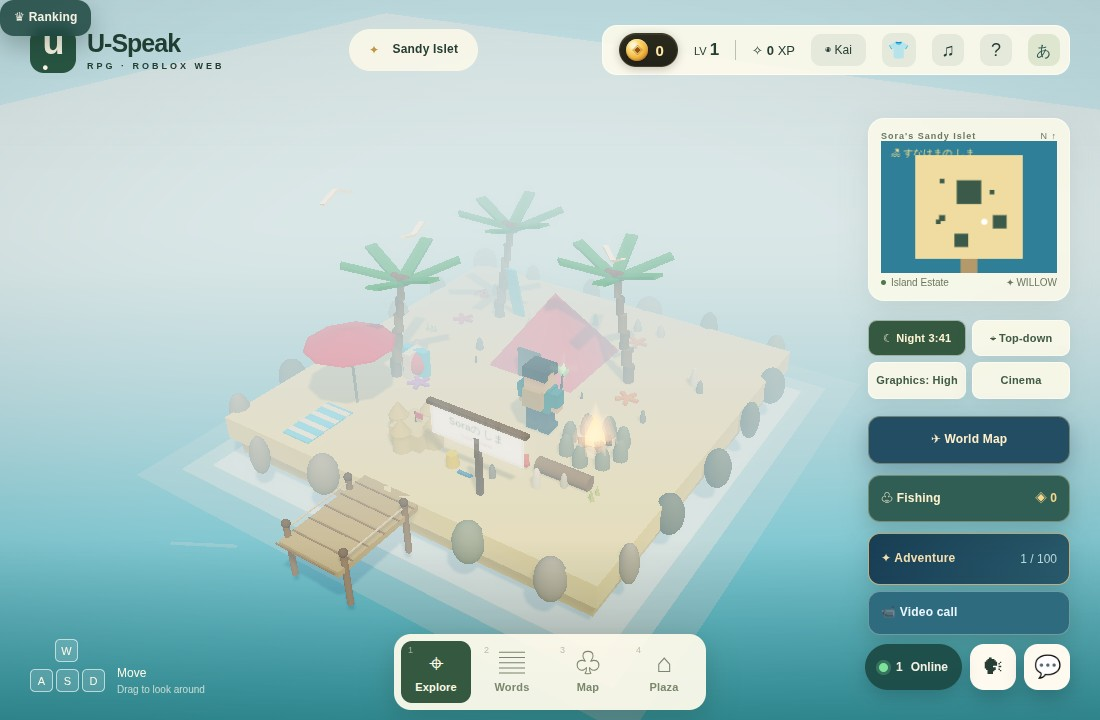
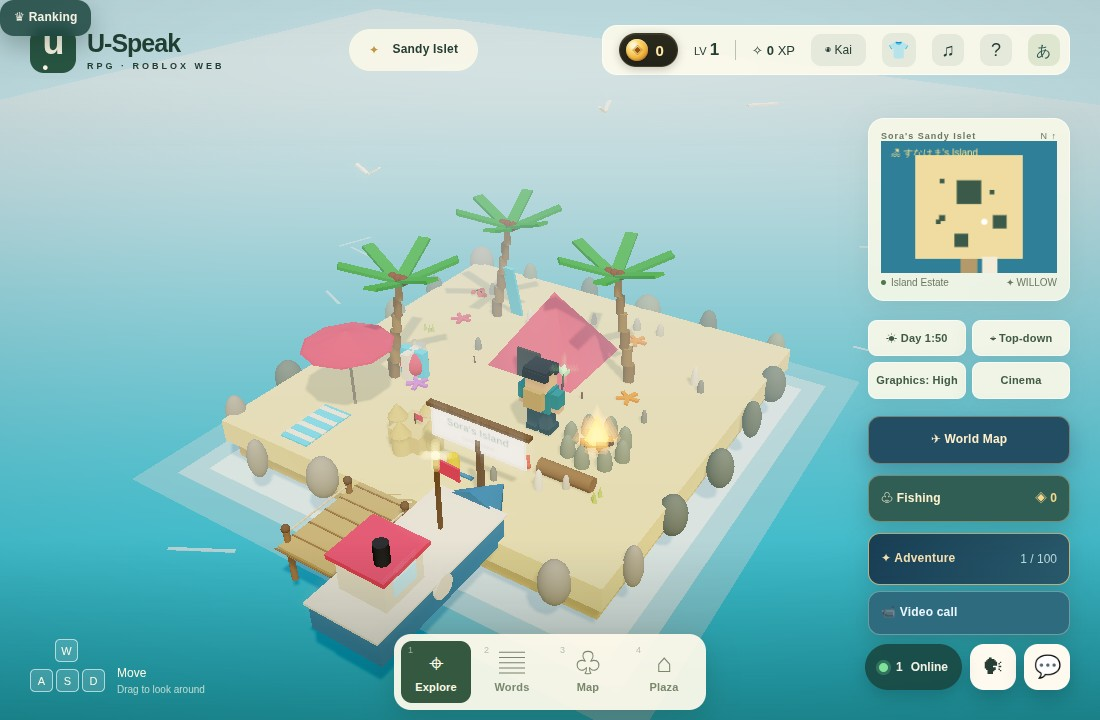
土地島: じぶんの しま・みんなの しまへ 船で いく（船が実際に走る・⏭ スキップ）
- land-world.js: createLand に船（船体・客室・マスト・旗・航跡・煙）と遠くの土地島。
  land:island が来たら startRide('in')：土地島の桟橋から島の berth まで ease で走り、
  乗っている間は blocked() が全部 true、update() が甲板に置き、カメラは船の斜め後ろ。
  着いたら桟橋に降りて船は横に係留。桟橋を下りると startRide('out') → leave()。
  #land-ride の ⏭ か myLand.skip() で即着く。enter(payload, {ride:false}) で船なし。
- ClassRoom: land:visit {name}（みんなの しまの戸口で）→ その子の land:island（visiting）。
  いない名前は 'no such child'、島なしは 'no island'。見るだけ、何も変えない。
- land.js / land.css: みんなの しまの各行に「⛵ いく」、乗船中の表示と控える操作。
- 検査: room.test の土地島に land:visit（自分・他人・いない子・島なし）、
  browser-land.mjs 26 項目（船が動く・スキップ・係留・桟橋から戻る・いく で行く）。
  英語監査 0、regression 33、サーバー 303/303。案内・lang.json・README・client/CLAUDE.md を更新。

Claude-Session: https://claude.ai/code/session_012KB9rzS4jFaqH8bW6v7YFy

diff --git a/client/dist/land-world.js b/client/dist/land-world.js
@@ -15,6 +15,7 @@
 // identical, so the card in the office and the island under a child's feet agree.
 import * as THREE from './three.module.js';
 import { say, live } from './canvas-say.js';
+import { t as tr, isJa } from './i18n.js';
 
 export const THEMES = {
   sand:    { ground: 0xf0dca0, edge: 0xd9bf7e, cliff: 0xb89a62, sky: 0x9fd3ea, water: 0x3b9ab8, foam: 0xd8f0f4, fog: 0xbfe3f0, sun: 0xfff0d0 },
@@ -511,6 +512,16 @@ export function buildIslandModel(island, opts = {}) {
 }
 
 // ---- the private scene ------------------------------------------------------------------
+//
+// Getting there is a boat ride. The ferry house on 土地島 does not teleport: the child is
+// put on a boat out by the hub's jetty, the boat sails in across the water to the island's
+// own jetty, and only then do they step off (⏭ skips to the stepping off). Leaving is the
+// same ride the other way. The ride is presentation only — the room decided whose island
+// this is before the boat moved — so nothing here is gated and nothing can be cheated.
+const RIDE_IN = 9;      // seconds, hub to island
+const RIDE_OUT = 5.5;   // seconds, island to hub
+const BERTH_X = 2.7;    // the boat moors beside the jetty, not across it
+
 export function createLand({ player, camera, view, toast, onLeave }) {
   const scene = new THREE.Scene();
   const hemi = new THREE.HemisphereLight(0xeaf4ff, 0x6a7a55, 1.7);
@@ -522,11 +533,49 @@ export function createLand({ player, camera, view, toast, onLeave }) {
   Object.assign(sun.shadow.camera, { left: -20, right: 20, top: 20, bottom: -20, near: 1, far: 80 });
   scene.add(sun);
 
-  const state = { active: false, island: null, obstacles: [] };
+  const state = { active: false, island: null, obstacles: [], ride: null };
   let model = null;
   let parent = null;
   let cooldown = 0;
   let wasFirstPerson = false;
+  let camSnap = false;              // the first frame of a ride puts the camera there at once
+
+  // ---- the boat, and the hub it comes from --------------------------------------------
+  const boat = new THREE.Group();
+  const bm = (g, color, glow = 0, opacity = 1) => { const m = new THREE.Mesh(g, mat(color, glow, opacity)); m.castShadow = opacity === 1; boat.add(m); return m; };
+  const hull = bm(BOX, 0x4e7fa8); hull.scale.set(2.2, 0.8, 5.0); hull.position.y = 0.3;
+  const bow = bm(geo('cone6', () => new THREE.ConeGeometry(1, 1, 6)), 0x4e7fa8); bow.scale.set(1.1, 1.6, 0.8); bow.rotation.x = -Math.PI / 2; bow.position.set(0, 0.3, -3.3);
+  const deck = bm(BOX, 0xd9b45c); deck.scale.set(2.0, 0.12, 4.6); deck.position.y = 0.72;
+  const rail = bm(BOX, 0xf3ecd8); rail.scale.set(2.3, 0.08, 5.2); rail.position.y = 0.78;
+  const cabin = bm(BOX, 0xf3ecd8); cabin.scale.set(1.5, 1.1, 1.4); cabin.position.set(0, 1.3, 1.1);
+  const roof = bm(BOX, 0xe0566a); roof.scale.set(1.8, 0.14, 1.7); roof.position.set(0, 1.9, 1.1);
+  for (const sx of [-1, 1]) { const w = bm(BOX, 0x9fd6e8, 0.4); w.scale.set(0.06, 0.5, 0.8); w.position.set(sx * 0.76, 1.35, 1.1); }
+  const frontWin = bm(BOX, 0x9fd6e8, 0.4); frontWin.scale.set(1.0, 0.5, 0.06); frontWin.position.set(0, 1.35, 0.38);
+  const funnel = bm(geo('cyl10:1', () => new THREE.CylinderGeometry(1, 1, 1, 10)), 0x3b3b40); funnel.scale.set(0.2, 0.7, 0.2); funnel.position.set(0.4, 2.2, 1.4);
+  const mast = bm(BOX, 0x6d543a); mast.scale.set(0.1, 2.4, 0.1); mast.position.set(0, 1.9, -1.2);
+  const flag = bm(BOX, 0xe0566a); flag.scale.set(0.7, 0.4, 0.05); flag.position.set(0.4, 2.9, -1.2);
+  for (const sx of [-1, 1]) { const ring = bm(geo('cyl10:1', () => new THREE.CylinderGeometry(1, 1, 1, 10)), 0xf3ecd8); ring.scale.set(0.35, 0.1, 0.35); ring.rotation.z = Math.PI / 2; ring.position.set(sx * 1.14, 0.55, 0.2); }
+  const lamp = bm(geo('ball', () => new THREE.SphereGeometry(1, 14, 11)), 0xffe08a, 1.4); lamp.scale.set(0.12, 0.12, 0.12); lamp.position.set(0, 3.2, -1.2);
+  const wake = []; for (let i = 0; i < 4; i += 1) { const w = bm(BOX, 0xffffff, 0.1, 0.5); w.scale.set(1.6 + i * 0.6, 0.04, 0.5); w.position.set(0, -0.02, 2.8 + i * 0.9); wake.push(w); }
+  const puffs = []; for (let i = 0; i < 3; i += 1) { const pf = bm(geo('ball', () => new THREE.SphereGeometry(1, 14, 11)), 0xf3efe6, 0, 0.4); pf.scale.set(0.25, 0.25, 0.25); pf.position.set(0.4, 2.6, 1.4); puffs.push(pf); }
+  boat.visible = false;
+  scene.add(boat);
+  // 土地島 itself, small and far, where the boat comes from and goes back to.
+  const hub = new THREE.Group();
+  const hm = (color, x, y, z, w, h, d) => { const m = new THREE.Mesh(BOX, mat(color)); m.position.set(x, y, z); m.scale.set(w, h, d); hub.add(m); return m; };
+  hm(0x9ebd66, 0, -0.4, 0, 34, 0.8, 18); hm(0x8a9a52, 0, -1.3, 0, 32, 1.2, 16); hm(0xe8dcb8, 0, 0.08, 4, 16, 0.14, 8);
+  for (const [x, c] of [[-10, 0xf2d8b2], [0, 0xcac3cc], [10, 0x78a7bc]]) { hm(c, x, 1.4, -2, 7, 2.8, 5.5); hm(0x7a5a3e, x, 3.1, -2, 7.8, 0.5, 6.2); hm(0x7a5a3e, x, 3.7, -2, 5, 0.8, 4); }
+  for (const x of [-15, 14, -4, 6]) { hm(0x8a6a45, x, 1.2, 6, 0.4, 2.4, 0.4); hm(0x4e9a3f, x, 2.9, 6, 2.2, 1.6, 2.2); }
+  hm(0xb49a6a, BERTH_X - 2.4, -0.1, -10.5, 2.2, 0.2, 5);
+  for (const z of [-9, -12.5]) hm(0x8a6a45, BERTH_X - 1.4, 0.4, z, 0.2, 1.2, 0.2);
+  scene.add(hub);
+
+  const ui = document.createElement('div');
+  ui.id = 'land-ride';
+  ui.hidden = true;
+  ui.innerHTML = `<span id="land-ride-text"></span><button type="button" id="land-ride-skip">⏭ <i>スキップ</i></button>`;
+  document.body.append(ui);
+  ui.querySelector('#land-ride-skip').addEventListener('click', () => skip());
 
   function build(island) {
     if (model) { scene.remove(model.group); model.dispose(); }
@@ -536,14 +585,64 @@ export function createLand({ player, camera, view, toast, onLeave }) {
     const theme = model.theme;
     const half = island.grid / 2;
     scene.background = new THREE.Color(theme.sky);
-    scene.fog = new THREE.Fog(theme.fog, half * 2.5, theme.space ? half * 12 : half * 7);
+    scene.fog = new THREE.Fog(theme.fog, half * 2.5, theme.space ? half * 12 : Math.max(half * 7, half + 75));
     sun.color.set(theme.sun);
     sun.intensity = theme.space ? 2.0 : island.theme === 'volcano' ? 1.2 : 1.6;
     hemi.intensity = theme.space ? 0.9 : 1.7;
     hemi.groundColor.set(theme.ground);
+    hub.position.set(0, theme.water ? 0 : -3, half + 58);
+    hub.visible = !theme.space;
   }
 
-  function enter(payload) {
+  // Where the boat is at a point of the ride: a straight run between the hub's jetty and
+  // this island's berth, eased so it slows into the berth and pulls away from it gently.
+  const ease = (u) => (u < 0.5 ? 2 * u * u : 1 - (-2 * u + 2) ** 2 / 2);
+  function rideZ(ride) {
+    const half = state.island.grid / 2;
+    const far = half + 44; const near = half + 2.2;
+    const u = ease(Math.min(1, ride.t / ride.dur));
+    return ride.dir === 'in' ? far + (near - far) * u : near + (far - near) * u;
+  }
+  function startRide(dir) {
+    state.ride = { dir, t: 0, dur: dir === 'in' ? RIDE_IN : RIDE_OUT };
+    boat.visible = true;
+    boat.position.set(BERTH_X, 0, rideZ(state.ride));
+    boat.rotation.set(0, dir === 'in' ? 0 : Math.PI, 0);
+    player.position.set(BERTH_X, 0.78, boat.position.z + 0.2);
+    player.rotation.y = dir === 'in' ? Math.PI : 0;
+    document.body.classList.add('on-ferry');
+    ui.hidden = false;
+    const isle = state.island;
+    ui.querySelector('#land-ride-text').textContent = dir === 'in'
+      ? tr('⛵ {name}へ…', { name: isle.visiting ? tr('{name}の しま', { name: isle.owner }) : (isJa() ? isle.name : isle.en) })
+      : tr('⛵ 土地島へ もどる…');
+    camSnap = true;
+  }
+  function endRide() {
+    const ride = state.ride;
+    if (!ride) return;
+    state.ride = null;
+    ui.hidden = true;
+    document.body.classList.remove('on-ferry');
+    const half = state.island.grid / 2;
+    if (ride.dir === 'in') {
+      // Moored beside the jetty; the child steps onto it.
+      boat.position.set(BERTH_X, 0, half + 2.2);
+      player.position.set(0, 0, half + 1.4);
+      player.rotation.y = Math.PI;
+      cooldown = 1.5;
+      const isle = state.island;
+      toast(isle.visiting
+        ? tr('{emoji} {name}の しまに ついた！ さんばしに もどると かえれるよ。', { emoji: isle.emoji || '', name: isle.owner })
+        : tr('{emoji} {name}に ついた！ さんばしに もどると かえれるよ。', { emoji: isle.emoji || '', name: isJa() ? isle.name : isle.en }));
+    } else {
+      boat.visible = false;
+      leave();
+    }
+  }
+  function skip() { if (state.ride) { state.ride.t = state.ride.dur; endRide(); } }
+
+  function enter(payload, { ride = true } = {}) {
     state.island = payload;
     build(payload);
     parent = player.parent;
@@ -560,13 +659,18 @@ export function createLand({ player, camera, view, toast, onLeave }) {
     if (where) where.innerHTML = `<span>✦</span><b class="en">${payload.en}</b><i class="ja">${payload.name}</i>`;
     const mapTitle = document.querySelector('.map-panel>div b');
     if (mapTitle) mapTitle.textContent = `${payload.owner || ''}'s ${payload.en}`;
-    toast(say(`${payload.emoji} ${payload.name}に ついた！ さんばしに もどると かえれるよ。`));
+    if (ride) startRide('in');
+    else toast(tr('{emoji} {name}に ついた！ さんばしに もどると かえれるよ。', { emoji: payload.emoji || '', name: isJa() ? payload.name : payload.en }));
     return true;
   }
 
   function leave(silent = false) {
     if (!state.active) return false;
     state.active = false;
+    state.ride = null;
+    ui.hidden = true;
+    boat.visible = false;
+    document.body.classList.remove('on-ferry');
     (parent || null)?.add(player);
     document.body.classList.remove('on-own-island');
     if (view) view.firstPerson = wasFirstPerson;
@@ -577,6 +681,7 @@ export function createLand({ player, camera, view, toast, onLeave }) {
 
   function blocked(x, z) {
     if (!state.active || !state.island) return null;
+    if (state.ride) return true;                      // on the boat, the boat does the moving
     const half = state.island.grid / 2;
     // The jetty is the way out; the water is not walked on.
     if (z > half) return !(Math.abs(x) < 1.0 && z < half + 3.2);
@@ -588,15 +693,41 @@ export function createLand({ player, camera, view, toast, onLeave }) {
     cooldown = Math.max(0, cooldown - dt);
     if (!state.active) return;
     model?.animate(t);
-    // Walking back out along the jetty is leaving.
+    // The boat, under way or moored: it bobs either way, and leaves a wake only moving.
+    if (boat.visible) {
+      boat.position.y = Math.sin(t * 1.6) * 0.07;
+      boat.rotation.z = Math.sin(t * 1.3) * 0.035;
+      boat.rotation.x = Math.sin(t * 1.1 + 1) * 0.02;
+      flag.rotation.y = Math.sin(t * 5) * 0.4;
+      const moving = !!state.ride;
+      wake.forEach((w, i) => { w.visible = moving; w.material.opacity = 0.45 - i * 0.1 + Math.sin(t * 6 + i) * 0.08; });
+      puffs.forEach((pf, i) => { pf.visible = moving; const k = (t * 0.8 + i * 0.45) % 1.3; pf.position.set(0.4 + Math.sin(t + i) * 0.2, 2.6 + k * 1.6, 1.4 + k * 1.2); const sc = 0.2 + k * 0.3; pf.scale.set(sc, sc, sc); pf.material.opacity = Math.max(0, 0.4 - k * 0.3); });
+    }
+    if (state.ride) {
+      state.ride.t += dt;
+      boat.position.z = rideZ(state.ride);
+      player.position.set(BERTH_X, boat.position.y + 0.78, boat.position.z + 0.2);
+      player.rotation.y = state.ride.dir === 'in' ? Math.PI : 0;
+      if (state.ride.t >= state.ride.dur) endRide();
+      return;
+    }
+    // Walking back out along the jetty is boarding: the boat takes the child home.
     const half = state.island.grid / 2;
-    if (!cooldown && !document.querySelector('dialog[open]') && player.position.z > half + 2.0) leave();
+    if (!cooldown && !document.querySelector('dialog[open]') && player.position.z > half + 2.0) startRide('out');
   }
 
   function updateCamera({ yaw, pitch, zoom, dt, firstPerson }) {
     if (!state.active) return false;
     camera.aspect = globalThis.innerWidth / globalThis.innerHeight || camera.aspect;
     camera.updateProjectionMatrix();
+    if (state.ride) {
+      // Off the quarter, a little high: the boat in the frame and the island ahead of it.
+      const b = boat.position; const dir = state.ride.dir === 'in' ? -1 : 1;
+      const desired = new THREE.Vector3(b.x + 8, 7.5, b.z - dir * 8);
+      if (camSnap) { camera.position.copy(desired); camSnap = false; } else camera.position.lerp(desired, 1 - Math.exp(-dt * 3));
+      camera.lookAt(b.x, 1.0, b.z + dir * 7);
+      return true;
+    }
     if (firstPerson) {
       camera.position.set(player.position.x, 2.05 + player.position.y, player.position.z);
       camera.lookAt(player.position.x - Math.sin(yaw) * Math.cos(pitch) * 10, camera.position.y + Math.sin(pitch) * 10, player.position.z - Math.cos(yaw) * Math.cos(pitch) * 10);
@@ -626,15 +757,17 @@ export function createLand({ player, camera, view, toast, onLeave }) {
     ctx.fillRect(90 - 1.1 * scale, 70 + half * scale, 2.2 * scale, 3 * scale);
     ctx.fillStyle = '#3c5a4a';
     for (const o of state.obstacles) ctx.fillRect(90 + (o.x - o.w) * scale, 70 + (o.z - o.d) * scale, o.w * 2 * scale, o.d * 2 * scale);
+    if (boat.visible) { ctx.fillStyle = '#f3ecd8'; ctx.fillRect(90 + (boat.position.x - 1) * scale, 70 + Math.min(half + 4, boat.position.z - 2.5) * scale, 2 * scale, 5 * scale); }
     ctx.fillStyle = '#fff';
-    ctx.beginPath(); ctx.arc(90 + player.position.x * scale, 70 + player.position.z * scale, 3.2, 0, Math.PI * 2); ctx.fill();
+    ctx.beginPath(); ctx.arc(90 + player.position.x * scale, 70 + Math.min(half + 6, player.position.z) * scale, 3.2, 0, Math.PI * 2); ctx.fill();
     ctx.fillStyle = '#ffe08a'; ctx.font = '10px sans-serif';
     ctx.fillText(`${state.island.emoji || ''} ${say(state.island.name)}`, 10, 16);
     return true;
   }
 
   return {
-    scene, state, enter, leave, blocked, update, updateCamera, minimap,
+    scene, state, enter, leave, blocked, update, updateCamera, minimap, skip, boat,
     get active() { return state.active; },
+    get riding() { return !!state.ride; },
   };
 }

diff --git a/client/dist/land.js b/client/dist/land.js
@@ -289,9 +289,9 @@ export function createLandUI({ send, toast, isOnline, world }) {
     return `<p class="land-lead">${tr('クラスの {n}人が しまを もっています。', { n: b.owners })}</p>
       <ul class="land-board">${b.rows.map((r) => {
         const l = looks.get(r.look) || null;
-        return `<li class="${r.name === b.me.name ? 'me' : ''}"><span class="land-shot small">${l ? `<img data-shot="${esc(l.id)}" alt="" hidden>` : ''}<span class="land-emoji" translate="no">${l ? esc(l.emoji) : '🌊'}</span></span><b>${esc(r.name)}</b><span>${l ? `${esc(name(l))}<br><i>${tr('だい{n}だん', { n: l.tier })}</i>` : tr('まだ')}</span></li>`;
+        return `<li class="${r.name === b.me.name ? 'me' : ''}"><span class="land-shot small">${l ? `<img data-shot="${esc(l.id)}" alt="" hidden>` : ''}<span class="land-emoji" translate="no">${l ? esc(l.emoji) : '🌊'}</span></span><b>${esc(r.name)}</b><span>${l ? `${esc(name(l))}<br><i>${tr('だい{n}だん', { n: l.tier })}</i>` : tr('まだ')}</span>${l ? `<button type="button" class="land-go" data-visit="${esc(r.name)}" ${state.busy ? 'disabled' : ''}>⛵ ${tr('いく')}</button>` : ''}</li>`;
       }).join('')}</ul>
-      <p class="land-note">${tr('なまえの じゅん。しまは じまんの ために あるので、ならべかえは しない。')}</p>`;
+      <p class="land-note">${tr('なまえの じゅん。しまは じまんの ために あるので、ならべかえは しない。')} ${tr('⛵ いく で、その 子の しまへ ふねで いける。')}</p>`;
   }
 
   dialog.addEventListener('click', (e) => {
@@ -301,6 +301,7 @@ export function createLandUI({ send, toast, isOnline, world }) {
     if (b.dataset.ask) { state.confirm = true; renderPick(); return; }
     if (b.dataset.cancel) { state.confirm = false; renderPick(); return; }
     if (b.dataset.buy) { state.busy = true; renderPick(); send(b.dataset.kind === 'restyle' ? 'land:restyle' : 'land:buy', { look: b.dataset.buy }); }
+    if (b.dataset.visit) { state.busy = true; render(); send('land:visit', { name: b.dataset.visit }); }
   });
   onLangChange(() => { if (dialog.open) render(); });
 
@@ -335,12 +336,13 @@ export function createLandUI({ send, toast, isOnline, world }) {
       : tr('{emoji} {name}を かった！ ⛵ の いえから いこう。', { emoji: isle.emoji || '', name: name(isle) }));
   }
   function onBoard(m) { state.board = m; render(); }
-  function onIsland(m) { close(); world.enter(m); }
+  function onIsland(m) { state.busy = false; close(); world.enter(m); }
   function onError(m) {
     state.busy = false;
     const said = {
       'too far': tr('その たてものの いりぐちで やろう。'), 'not enough coins': tr('コインが たりない。'), 'biggest already': tr('もう いちばん おおきな しま！'),
-      'no island': tr('まだ しまを もっていない。ふどうさんで かおう。'), 'same look': tr('もう その しま だよ。'), 'no such look': tr('その しまは いま えらべない。'),
+      'no island': m?.name ? tr('{who} は まだ しまを もっていない。', { who: m.name }) : tr('まだ しまを もっていない。ふどうさんで かおう。'),
+      'same look': tr('もう その しま だよ。'), 'no such look': tr('その しまは いま えらべない。'), 'no such child': tr('その 子は クラスに いない。'),
     }[m?.reason];
     if (said) toast(said);
     state.confirm = false;

diff --git a/server/src/rooms/ClassRoom.js b/server/src/rooms/ClassRoom.js
@@ -178,6 +178,7 @@ export class ClassRoom extends Room {
     this.onMessage('land:restyle', (client, msg) => this.onLandRestyle(client, msg));
     this.onMessage('land:enter', (client) => this.onLandEnter(client));
     this.onMessage('land:board', (client) => this.onLandBoard(client));
+    this.onMessage('land:visit', (client, msg) => this.onLandVisit(client, msg));
     this.onMessage('prop:list', (client) => client.send('prop:shop', this.propShopPayload(client.sessionId)));
     this.onMessage('prop:buy', (client, msg) => this.onPropBuy(client, msg));
     this.onMessage('plaza:enter', (client) => this.onPlazaEnter(client));
@@ -2763,6 +2764,31 @@ export class ClassRoom extends Room {
     const isle = landIslandPayload(priv.land, priv.name);
     if (!isle) { client.send('land:error', { reason: 'no island' }); return; }
     client.send('land:island', isle);
+  }
+
+  // A classmate's island, to sail to from the board. What is handed over is only what
+  // the board already shows (step, look, name): nothing private, nothing to change.
+  onLandVisit(client, msg) {
+    const priv = this.priv.get(client.sessionId);
+    if (!priv) return;
+    if (!this.atLandSpot(client.sessionId, 'board')) { client.send('land:error', { reason: 'too far', spot: this.landSpotPayload('board') }); return; }
+    const name = typeof msg?.name === 'string' ? msg.name.trim() : '';
+    let land = null; let found = false;
+    for (const [id, p] of this.priv) {
+      const player = this.state.players.get(id);
+      if (!player || player.role === 'teacher' || p.name !== name) continue;
+      land = p.land; found = true; break;
+    }
+    if (!found) {
+      let records = [];
+      try { records = this.store.listClass?.(this.classCode) || []; } catch (err) { log.warn(`[room ${this.roomId}] listClass failed:`, err.message); }
+      const r = records.find((x) => x.name === name && x.role !== 'teacher');
+      if (r) { land = sanitizeLand(parseJson(r.land_json, null)); found = true; }
+    }
+    if (!found) { client.send('land:error', { reason: 'no such child' }); return; }
+    const isle = landIslandPayload(land, name);
+    if (!isle) { client.send('land:error', { reason: 'no island', name }); return; }
+    client.send('land:island', { ...isle, visiting: name !== priv.name });
   }
 
   // Everyone's islands, by name — not by tier. A class board that sorts children by

diff --git a/client/dist/land.css b/client/dist/land.css
@@ -77,8 +77,20 @@
 .land-board li > span:last-child { font-size: 12px; color: #5a4a2a; text-align: right; line-height: 1.35; }
 .land-board li i { font-style: normal; color: #9a8a6a; font-size: 11px; }
 .land-board li.me { border-color: #4a7338; background: #eef6e8; }
+.land-board li .land-go { padding: 7px 10px; border-radius: 10px; font-size: 13px; font-weight: 700; border: 1px solid #4a7338; background: #4a7338; color: #fff; white-space: nowrap; }
+.land-board li .land-go:disabled { opacity: .55; }
 /* While standing on your own island the quest panel steps aside; the rail stays. */
 body.on-own-island .quest-panel { display: none; }
+/* The boat ride: one line saying where to, and the skip. The walk controls step aside. */
+#land-ride {
+  position: fixed; left: 50%; bottom: max(96px, calc(env(safe-area-inset-bottom, 0px) + 96px)); transform: translateX(-50%); z-index: 60;
+  display: flex; align-items: center; gap: 12px; padding: 10px 12px 10px 18px; border-radius: 999px;
+  background: #10241ccc; color: #fff; font-weight: 700; font-size: 15px; backdrop-filter: blur(4px); box-shadow: 0 10px 30px #0b1f1e66; white-space: nowrap;
+}
+#land-ride[hidden] { display: none; }
+#land-ride button { padding: 8px 14px; border-radius: 999px; border: 0; background: #ffd766; color: #1b3a2f; font-weight: 800; font-size: 14px; }
+#land-ride button i { font-style: normal; }
+body.on-ferry .mobile-pad, body.on-ferry #near, body.on-ferry .control-hint { display: none !important; }
 @media (max-width: 760px) {
   .land-stage { grid-template-columns: 1fr; }
   .land-view { min-height: 0; }

diff --git a/README.md b/README.md
@@ -477,8 +477,8 @@ fly secrets set --app uspeak-multiplayer ACCESS_MODE=roster \
 | 建物 | やること |
 |---|---|
 | 🏝 しまの ふどうさん（Pelly） | **12 枚のカードが全部 3D の絵**（本物の島を焼いた画像）。カードを押すと上の台で **その島がゆっくり回る**（指でも回せる）。次の段は値段つき、同じ段のもう片方は「もようがえ」、その先は 🔒。**2 タップで買う**（確認あり）。順番に、戻らない |
-| ⛵ じぶんの しまへ（Captain Gull） | 戸口に入ると **自分の島**（別シーン）。歩いて見てまわり、さんばしを下ると戻る |
-| 🗺 みんなの しま（Momo） | クラスの子の島を **名前順**で並べる（段の順には並べない）。島の絵つき |
+| ⛵ じぶんの しまへ（Captain Gull） | 戸口に入ると **船に乗って自分の島へ**（船が実際に 土地島の桟橋から島の桟橋まで走る。約 9 秒、**⏭ スキップ**あり）。歩いて見てまわり、さんばしを下るとまた船で戻る（約 5 秒、スキップ可） |
+| 🗺 みんなの しま（Momo） | クラスの子の島を **名前順**で並べる（段の順には並べない）。島の絵つき。**「⛵ いく」でその子の島へ船で遊びに行ける**（`land:visit`。見るだけ、何も変えられない） |
 
 - **コインだけ**（レベル条件なし・ユーザーの指示）。**英語の判定にもコインの稼ぎにも影響しない**（ごほうび）。
 - 値段と段と見た目は `client/dist/land.json` 1 か所をページとサーバーが読む。請求は `server/src/game/land.js`
@@ -490,9 +490,13 @@ fly secrets set --app uspeak-multiplayer ACCESS_MODE=roster \
   ふどうさん（`land.js`）は **同じ Group を自前の WebGLRenderer で描く**：台の上では回し、カードは
   `WebGLRenderTarget` に 1 回焼いて画像にする（きせかえの店と同じ作り。12 枚のキャンバスは iPad に無理）。
   動くもの：風車・けむり・星・たき火・灯台の光・ボート・カモ・コイ・ホタル・雪・ロケットの炎・地球・バギー・鳥。
+- 船は `land-world.js` の `createLand` が持つ 1 隻（船体・客室・マスト・旗・航跡・煙）。`land:island` が来たら `startRide('in')`：
+  遠くに小さく見える土地島の桟橋から島の berth まで ease で走り、その間 `blocked()` は全部 true（船が動かす）、
+  カメラは船の斜め後ろ。着いたら桟橋に降りて船は横に係留。桟橋を下りると `startRide('out')` → `leave()`。
+  `#land-ride` の ⏭ か `myLand.skip()` で即着く。乗っているかどうかは `myLand.riding`。
 - 検査：`server/test/land.test.mjs`（8 項目・段と見た目の規則・もようがえ・壊れた JSON を起動時に拒む）/
-  `room.test.mjs` の「土地島」（実ソケット・位置ゲート・請求・順番・もようがえの 3 つの断り・再接続後も残る）/
-  `server/test/e2e/browser-land.mjs`（実ブラウザ 19 項目・12 枚の 3D の絵が全部ちがう・台が回る・買って島に立って戻る）/
+  `room.test.mjs` の「土地島」（実ソケット・位置ゲート・請求・順番・もようがえの 3 つの断り・`land:visit`・再接続後も残る）/
+  `server/test/e2e/browser-land.mjs`（実ブラウザ 25 項目・12 枚の 3D の絵が全部ちがう・台が回る・買う・船が動く・スキップ・島に立って船で戻る・みんなの しまから船で行く）/
   `client/tests/regression.mjs` の島の検査 / `browser-layout.mjs` の `land` 画面。
 
 ## きせかえ島（アバターの店）

diff --git a/client/CLAUDE.md b/client/CLAUDE.md
@@ -889,7 +889,12 @@ GPU・実ブラウザー描画・タッチ操作の実機QAは未実施です。
 - **カードの立場は `standing(look)`**：`mine` / `restyle`（同じ段のもう片方、`step.restyle` の値段）/ `next`（`next.price`）/
   `passed` / `later`。買うのは 2 タップ（`data-ask` → `data-buy`、`data-kind` が buy か restyle か）。
   値段の表示は `land.json`、請求はサーバー（`land:buy {look}` / `land:restyle {look}`）。
+- **行き帰りは船**（`createLand` の `startRide(dir)` / `endRide()` / `skip()`）。`enter(payload)` は島を建てて船に乗せるだけで、
+  着くのは `endRide('in')`（`cooldown` 1.5 秒）。乗っている間は `blocked()` が全部 true、`update()` が毎フレーム
+  player を甲板に置き、`updateCamera()` が船を追う。桟橋の先（`z > half + 2`）に出たら `startRide('out')` → `leave()`。
+  **`enter(payload, {ride:false})` で船なし**（検査や急ぐときに）。遠くの土地島（`hub`）は `half + 58` に置き、船は その桟橋（`half + 44`）から出る。
 - **みんなの しま は名前順**。段で並べ替えないこと（順位表にしない。`docs/uspeak-retention.md`）。
+  「⛵ いく」→ `land:visit {name}` → 同じ `land:island`（`visiting: true`）→ 同じ船。見るだけ。
 - 見た目を足す／段を変えるときは `land.test.mjs`（比率 2〜6 倍・順番・12 の世界が全部ちがう・もようがえ）を通し、
   `land-world.js` の `THEMES` と `BUILD` に同じ名前で足し、`land.css` の `[data-theme=…]` の色も足すこと。
 
